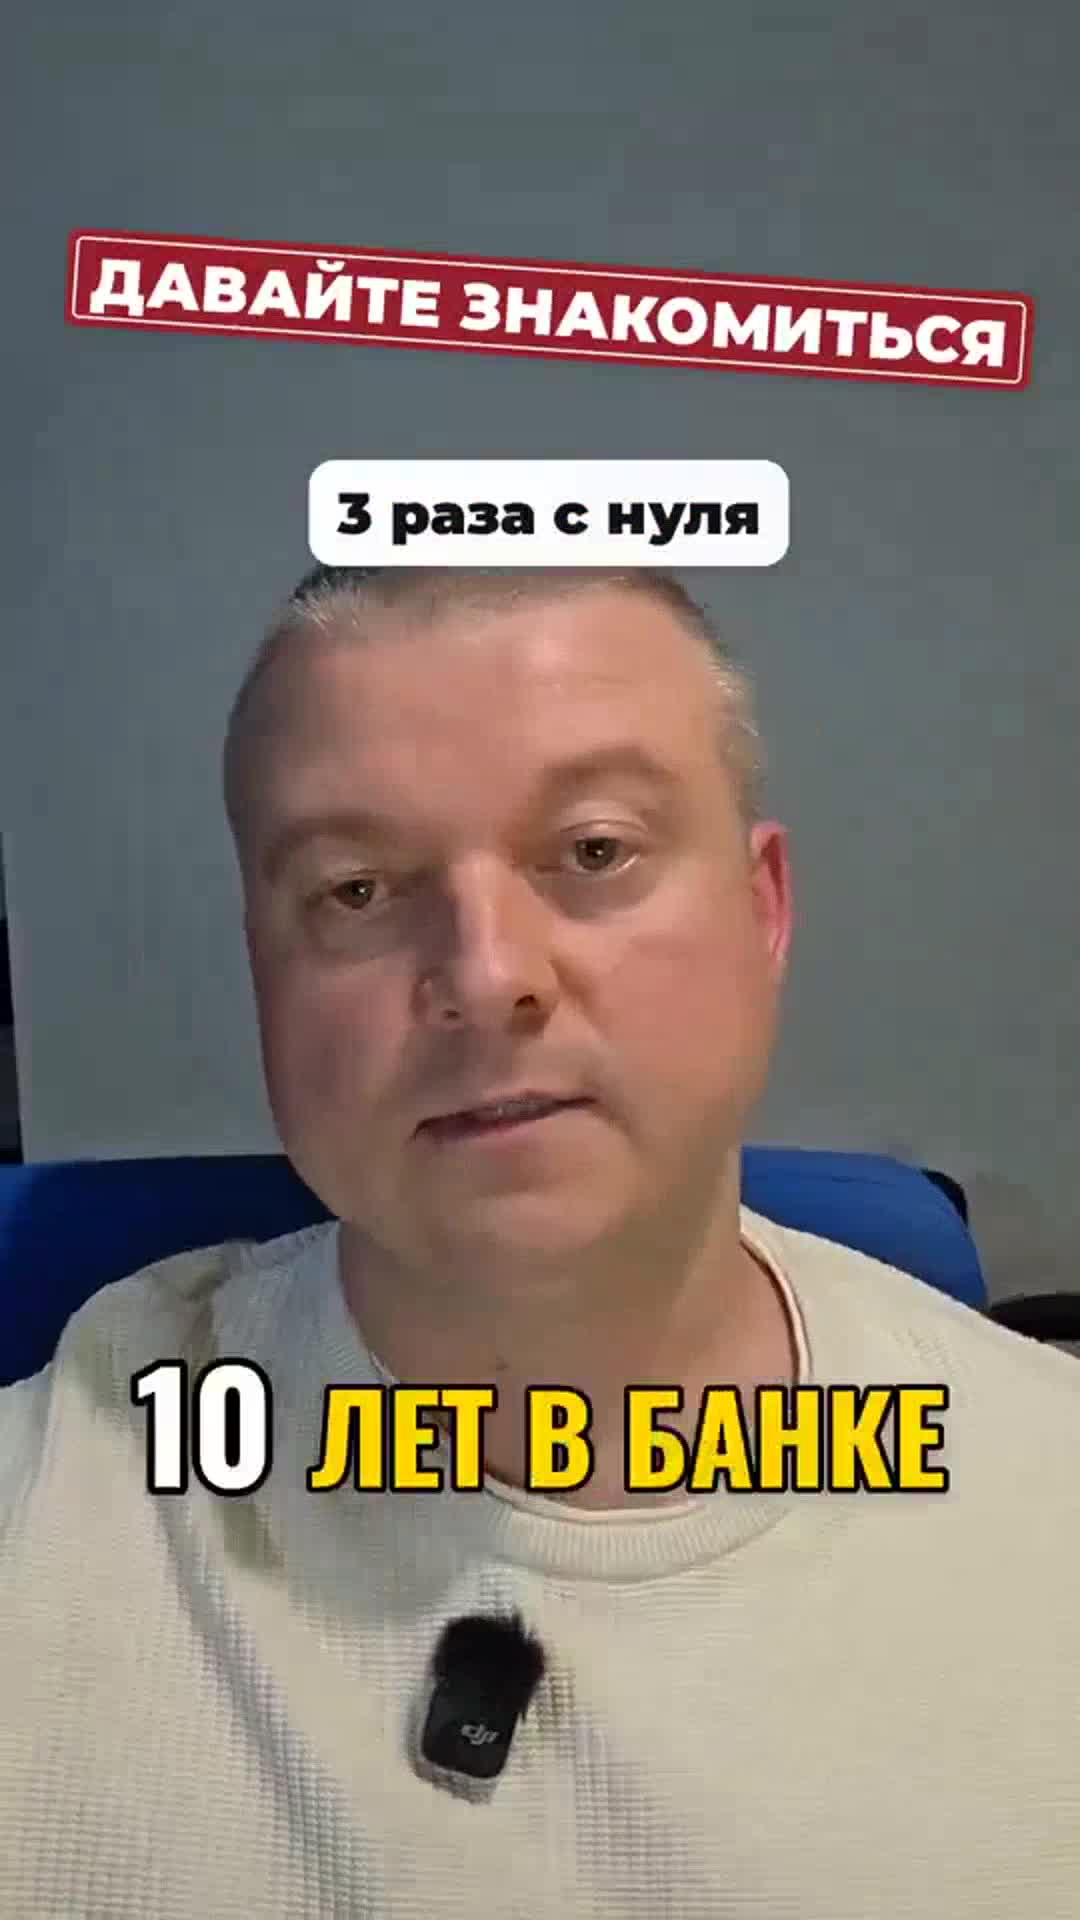
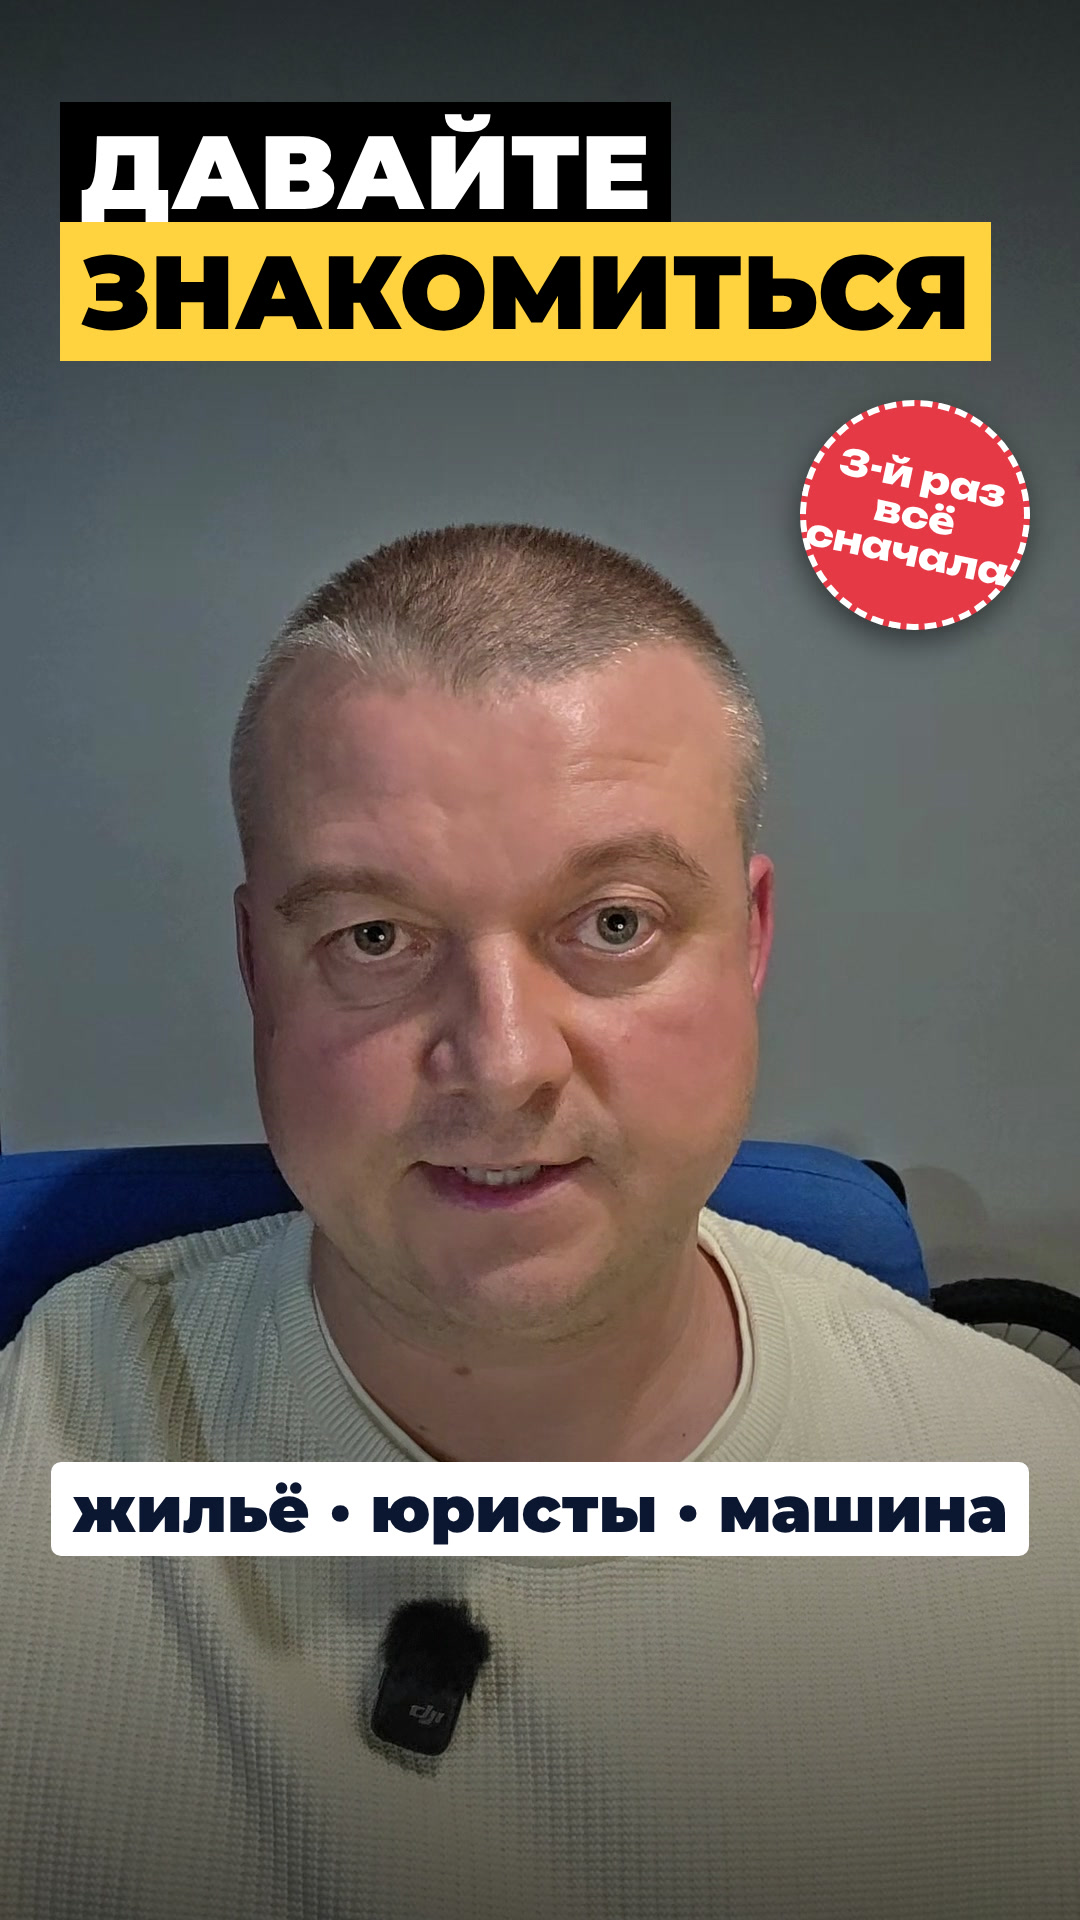
Проба HyperFrames: обложка стиль В, «всё сначала» вместо «с нуля»
Claude-Session: https://claude.ai/code/session_01RwUHViUH4nsJ5gHnCrCPbs

diff --git a/hf/znakomstvo/index.html b/hf/znakomstvo/index.html
@@ -71,15 +71,15 @@ html,body{width:1080px;height:1920px;background:#000;overflow:hidden}
 .sg span.acc.on{background:var(--r);color:#fff;-webkit-text-stroke:0;transform:scale(1.08) rotate(-2deg)}
 </style></head><body>
 <div id="root" data-composition-id="root" data-width="1080" data-height="1920" data-fps="30" data-start="0" data-duration="83.878">
-<img id="cover" class="full" src="img/обложка.jpg">
+<img id="cover" class="full" src="oblozhka.jpg">
 <div id="cam" class="full"><video id="v" class="full" src="osnova.mp4" data-start="0" data-duration="83.878" data-has-audio="true"></video></div>
 <div id="title" class="zone" style="top:140px">
  <div class="stamp"><span>ДАВАЙТЕ</span> <span>ЗНАКОМИТЬСЯ</span></div>
- <div class="chips"><b id="c1">10 лет в банке</b><b id="c2">свой бизнес</b><b id="c3" class="red">3 раза с нуля</b></div></div>
+ <div class="chips"><b id="c1">10 лет в банке</b><b id="c2">свой бизнес</b><b id="c3" class="red">3-й раз всё сначала</b></div></div>
 <div id="name" class="lower"><div class="bar"></div><div><div class="nm">Евгений Калмыков</div><div class="nl"><i class="pin"></i>Валенсия · с июля 2025</div></div></div>
 <div id="ph1" class="photo" style="top:160px;right:60px"><img src="img/city2_5.jpg"><span>Валенсия</span></div>
 <div id="ph2" class="photo" style="top:570px;left:40px;transform:rotate(-5deg)"><img src="img/kharkiv_1.jpg"><span>Харьков</span></div>
-<div id="route" class="zone" style="top:140px"><div class="rt-h">ТРИ РАЗА С НУЛЯ</div>
+<div id="route" class="zone" style="top:140px"><div class="rt-h">И СНОВА ВСЁ СНАЧАЛА</div>
 <svg viewBox="0 0 960 300" width="960" height="300"><path id="rp" d="M80 210 C 250 60, 330 60, 470 150 S 760 260, 880 110" fill="none" stroke="#ffd23f" stroke-width="14" stroke-linecap="round" stroke-dasharray="8 22"/></svg>
 <div class="pt" id="p1" style="left:40px;top:235px"><i></i><u>2014</u><s>Луганск</s></div>
 <div class="pt" id="p2" style="left:420px;top:175px"><i></i><u class="r">2022</u><s>Харьков</s></div>

diff --git a/hf/build_znakomstvo.py b/hf/build_znakomstvo.py
@@ -64,7 +64,7 @@ def tl(s): J.append(s)
 def snd(kind, t, vol=0.35): SND.append((kind, round(t, 3), vol))
 
 # 0. обложка на первом кадре (TikTok берёт кадр 0)
-H.append('<img id="cover" class="full" src="img/обложка.jpg">')
+H.append('<img id="cover" class="full" src="oblozhka.jpg">')
 tl('tl.set("#cover",{opacity:1},0).set("#cover",{opacity:0},0.12);')
 
 # основа
@@ -78,7 +78,7 @@ tl(f'tl.to("#v",{{scale:1.06,duration:{DUR/2:.2f},ease:"sine.inOut",yoyo:true,re
 # 1. заставка: «Давайте знакомиться» + три фишки
 H.append(f'''<div id="title" class="zone" style="top:{TOP}px">
  <div class="stamp"><span>ДАВАЙТЕ</span> <span>ЗНАКОМИТЬСЯ</span></div>
- <div class="chips"><b id="c1">10 лет в банке</b><b id="c2">свой бизнес</b><b id="c3" class="red">3 раза с нуля</b></div></div>''')
+ <div class="chips"><b id="c1">10 лет в банке</b><b id="c2">свой бизнес</b><b id="c3" class="red">3-й раз всё сначала</b></div></div>''')
 tl('tl.from("#title .stamp span",{y:-120,opacity:0,rotation:-6,stagger:0.12,duration:0.45,ease:"back.out(2)"},0.12);')
 for cid, w in (("c1", "банке"), ("c2", "бизнес"), ("c3", "нуля")):
     t = at(w); tl(f'tl.from("#{cid}",{{scale:0,opacity:0,duration:0.35,ease:"back.out(3)"}},{t-0.1:.3f});'); snd("pop", t - 0.1, 0.3)
@@ -94,7 +94,7 @@ tl(f'tl.from("#ph1",{{scale:0.2,rotation:12,opacity:0,duration:0.45,ease:"back.o
 H.append(f'<div id="ph2" class="photo" style="top:{TOP+430}px;left:40px;transform:rotate(-5deg)"><img src="img/kharkiv_1.jpg"><span>Харьков</span></div>')
 tl(f'tl.from("#ph2",{{scale:0.2,rotation:-15,opacity:0,duration:0.45,ease:"back.out(2)"}},{T["kh"]-0.05:.3f}).to("#ph2",{{scale:0.3,opacity:0,duration:0.3}},{T["y22"]-0.2:.3f});')
 # 3. маршрут: Луганск → Харьков → Валенсия, линия рисуется, годы щёлкают
-H.append(f'''<div id="route" class="zone" style="top:{TOP}px"><div class="rt-h">ТРИ РАЗА С НУЛЯ</div>
+H.append(f'''<div id="route" class="zone" style="top:{TOP}px"><div class="rt-h">И СНОВА ВСЁ СНАЧАЛА</div>
 <svg viewBox="0 0 960 300" width="960" height="300"><path id="rp" d="M80 210 C 250 60, 330 60, 470 150 S 760 260, 880 110" fill="none" stroke="#ffd23f" stroke-width="14" stroke-linecap="round" stroke-dasharray="8 22"/></svg>
 <div class="pt" id="p1" style="left:40px;top:235px"><i></i><u>2014</u><s>Луганск</s></div>
 <div class="pt" id="p2" style="left:420px;top:175px"><i></i><u class="r">2022</u><s>Харьков</s></div>
